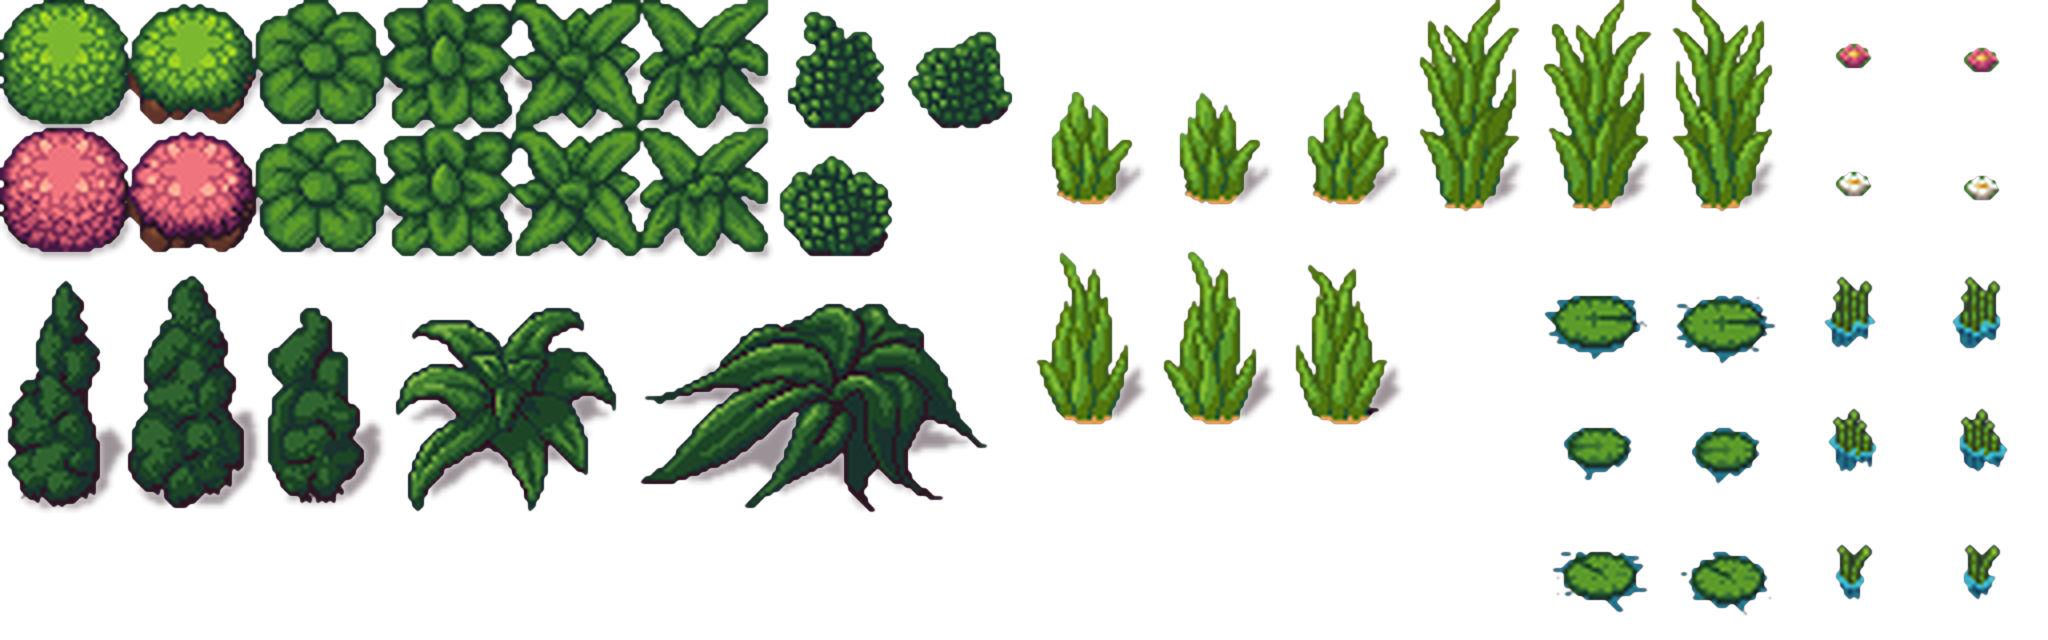
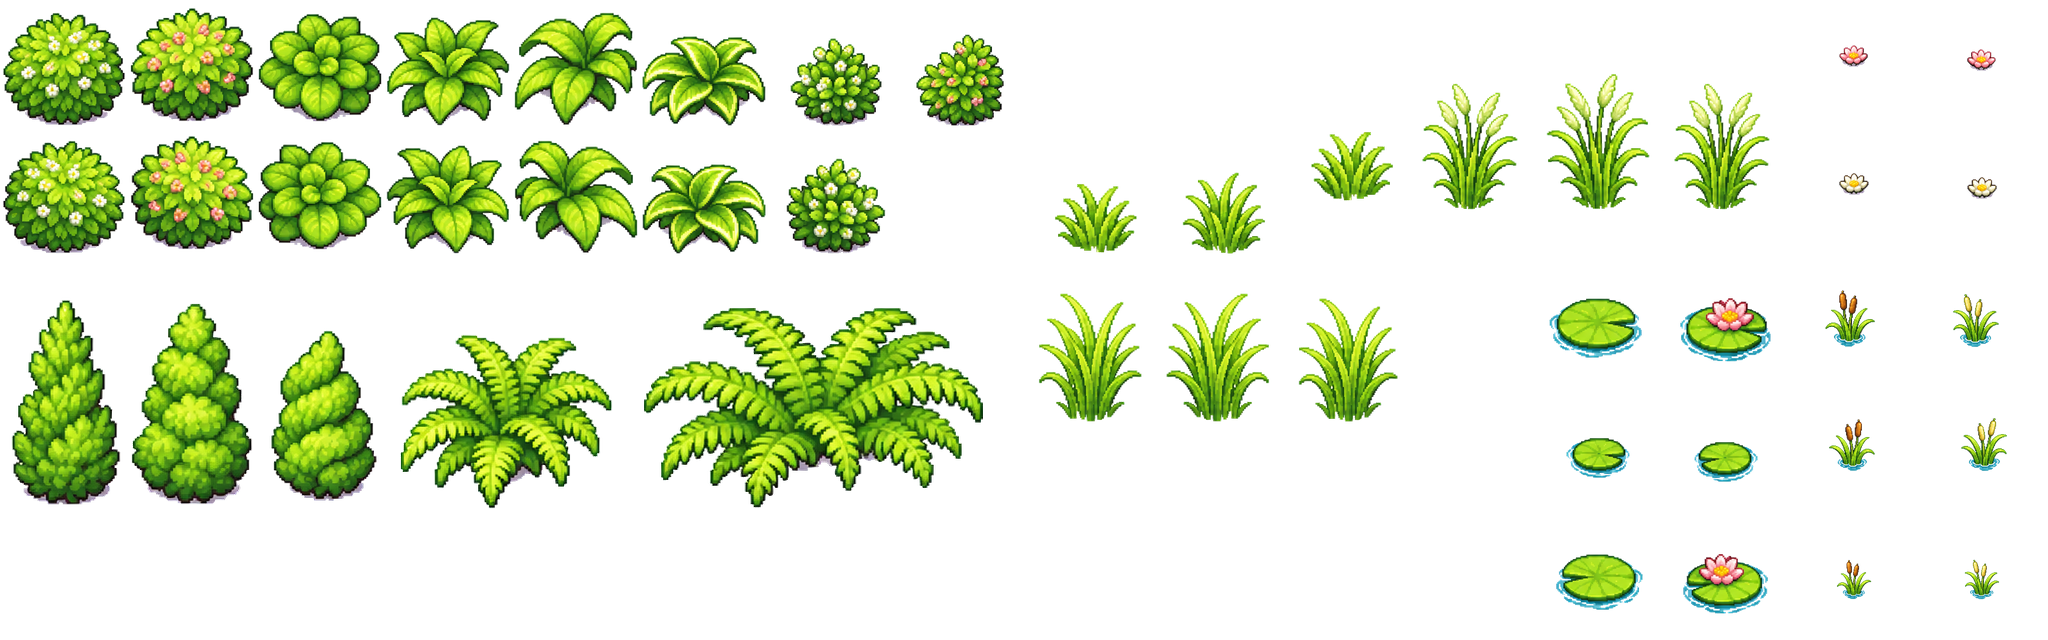
art(wilds): ChatGPT ground plants through the seasons and grassland rocks
- the ground plants the map scatters on brush and tall grass, and the water's
  edge reeds, lily pads, lilies and cattails: 24 drawn plants a season
  (spring, summer, autumn, winter) laid into the plants sheets, mirrored to
  fill their twin cells; the sheets start blank, since the scatter takes any
  lone cell, and every season keeps the summer sizes
- the grassland rocks (map fallback rocks, bank stones): ten shapes in three
  stone colours

Every keyed renderer sheet that has a repaint now loads it (it was only the
trees, plants and grassland rocks), so the lot sign board, the carried grain
sack and the flotsam crate and planks show the new art; their draws scale
their cells by the sheet's size.

Claude-Session: https://claude.ai/code/session_015H8bBwBoYmHtzQn6aSaAEB

diff --git a/src/ui/innerMapLayers/entities.js b/src/ui/innerMapLayers/entities.js
@@ -883,7 +883,8 @@ Object.assign(InnerMapRenderer, {
                             const s = ds * 0.6 * charScale;
                             const side = nDir === InnerMapCharacters.DIR_LEFT ? -1 : nDir === InnerMapCharacters.DIR_RIGHT ? 1 : 0;
                             const bob = nAnim === 'walk' ? Math.abs(Math.sin(npcTime * 9)) * ds * 0.03 : 0;
-                            ctx.drawImage(sackSheet, 32, 96, 32, 32, sx - s / 2 + side * cw * 0.22, cy + ch * 0.42 - s / 2 - bob, s, s);
+                            const k = self._sheetScale(sackSheet);   // (the grain sack, farming_fishing cell (1, 2-3))
+                            ctx.drawImage(sackSheet, 32 * k, 92 * k, 32 * k, 36 * k, sx - s / 2 + side * cw * 0.22, cy + ch * 0.42 - s / 2 - bob, s, s);
                         };
                         if (sackSheet && nDir === InnerMapCharacters.DIR_UP) drawSack();
                         if (extra && nDir === InnerMapCharacters.DIR_UP) drawTool();
@@ -1117,11 +1118,14 @@ Object.assign(InnerMapRenderer, {
         const sz = cs * 0.8;
         if (sv.kind === 'planks' && sheet('lumber')) {
             // one of the first row's loose planks
-            ctx.drawImage(sheet('lumber'), (sv.frame % 10) * 32, 0, 32, 32, -sz / 2, -sz * 0.7, sz, sz);
+            const k = this._sheetScale(sheet('lumber'));
+            ctx.drawImage(sheet('lumber'), (sv.frame % 10) * 32 * k, 0, 32 * k, 32 * k, -sz / 2, -sz * 0.7, sz, sz);
         } else if (sv.kind === 'crate' && sheet('crate')) {
-            ctx.drawImage(sheet('crate'), 0, 32, 32, 32, -sz / 2, -sz * 0.75, sz, sz);
+            const k = this._sheetScale(sheet('crate'));
+            ctx.drawImage(sheet('crate'), 0, 32 * k, 32 * k, 32 * k, -sz / 2, -sz * 0.75, sz, sz);
         } else if (sv.kind === 'chest' && sheet('chest')) {
-            ctx.drawImage(sheet('chest'), 64, 0, 32, 32, -sz / 2, -sz * 0.75, sz, sz);
+            const k = this._sheetScale(sheet('chest'));
+            ctx.drawImage(sheet('chest'), 64 * k, 0, 32 * k, 32 * k, -sz / 2, -sz * 0.75, sz, sz);
         } else if (sv.kind === 'sail') {
             ctx.fillStyle = 'rgba(232,224,204,0.95)';
             ctx.beginPath();

diff --git a/src/ui/innerMapRenderer.js b/src/ui/innerMapRenderer.js
@@ -12,10 +12,9 @@ import { resetCanvasTransform } from './hiDpi.js';
 import { CustomSheets, loadSheetInto } from '../core/customSheets.js';
 import { sheetScale } from './sheetScale.js';
 
-// Map scatter sheets that load their painted repaint (data/innerMapRenderer.json
-// `modernSheets`, at 4x in the original layout) — every draw from them scales its
-// 32px cell addresses by sheetScale(). Other keyed sheets stay the originals.
-const MODERN_KEYS = /^(trees|plants)_|^rocks_grass$/;
+// Keyed sheets with a repaint (data/innerMapRenderer.json `modernSheets`, at 4x in
+// the original layout) load it — every draw from them scales its 32px cell
+// addresses by sheetScale().
 
 // ============================================
 // INNER MAP RENDERER — LPC (Liberated Pixel Cup) Style
@@ -113,8 +112,7 @@ export const InnerMapRenderer = {
                     img.onload = () => { this._sheets.set(key, img); resolve(); };
                     img.onerror = () => { console.warn(`LPC sheet missing: ${path}`); resolve(); };
                 });
-                if (MODERN_KEYS.test(key)) loadSheetInto(img, path, DataLoader._gamedata, img.onerror);
-                else img.src = path;
+                loadSheetInto(img, path, DataLoader._gamedata, img.onerror);   // (its repaint, if it has one)
                 promises.push(p);
             }
             // Also load the spritesheet terrain JSON for fill definitions

diff --git a/scripts/make_new_props.py b/scripts/make_new_props.py
@@ -51,12 +51,38 @@ SHEETS = {
     'arched':   ('lpc/Structure/Doors/64x64px Arched Doors/Arched Double Doors A.png', (8, 12)),
     'frame':    ('lpc/Structure/Doors/32x64px Doors/Doorframe A.png', (12, 6)),
     'farm':     ('lpc/ThatchedHouses/tilesets/farming_fishing.png', (20, 20)),
-    'kitfurn':  ('buildingKit/furniture.png', (4, 8)),   # no repaint before: started from the original at 4x
+    'kitfurn':  ('buildingKit/furniture.png', (4, 8)),
+    'grocks':   ('lpc/Terrain/Rocks, Grasslands.png', (6, 12)),
+    **{f'plants_{x}': (f'lpc/Terrain/plants_{x}.png', (16, 5)) for x in ('spring', 'summer', 'autumn', 'winter')},   # no repaint before: started from the original at 4x
 }
+
+# The ground plants (map scatter on brush and tall grass, water's-edge dressing): 24 drawings a
+# season, each filling one or more cells of the plants sheet; 'f' marks a mirrored copy.
+PLANT_CELLS = [
+    [(0, 0, 1, 1), (0, 1, 1, 1, 'f')], [(1, 0, 1, 1), (1, 1, 1, 1, 'f')],          # round bushes
+    [(2, 0, 1, 1), (2, 1, 1, 1, 'f')], [(3, 0, 1, 1), (3, 1, 1, 1, 'f')],          # rosettes
+    [(4, 0, 1, 1), (4, 1, 1, 1, 'f')], [(5, 0, 1, 1), (5, 1, 1, 1, 'f')],          # broad leaves
+    [(6, 0, 1, 1), (6, 1, 1, 1, 'f')], [(7, 0, 1, 1)],                             # dense shrubs
+    [(0, 2, 1, 2)], [(1, 2, 1, 2)], [(2, 2, 1, 2)],                                # conifer shrubs
+    [(3, 2, 2, 2)], [(5, 2, 3, 2)],                                                # fern, giant fern
+    [(8, 1, 1, 1), (10, 1, 1, 1, 'f')], [(9, 1, 1, 1)],                            # grass tufts
+    [(8, 2, 1, 2), (9, 2, 1, 2, 'f'), (10, 2, 1, 2)],                              # tall grass
+    [(11, 0, 1, 2), (12, 0, 1, 2, 'f'), (13, 0, 1, 2)],                            # tall reeds
+    [(12, 2, 1, 1), (12, 4, 1, 1, 'f')], [(12, 3, 1, 1), (13, 3, 1, 1, 'f')],      # lily pads
+    [(13, 2, 1, 1), (13, 4, 1, 1, 'f')],                                           # lily pad in flower
+    [(14, 0, 1, 1), (15, 0, 1, 1, 'f')], [(14, 1, 1, 1), (15, 1, 1, 1, 'f')],      # lily flowers
+    [(14, 2, 1, 1), (14, 3, 1, 1, 'f'), (14, 4, 1, 1)], [(15, 2, 1, 1), (15, 3, 1, 1, 'f'), (15, 4, 1, 1)],  # cattails
+]
 
 # a source, and the sheet and cell rectangle each of its drawings fills, in reading order
 # (a third entry: more rectangles the same drawing fills, e.g. an animation's frames)
 RECIPES = {
+    **{f'plants_{x}': (f'plants_{x}_source.png', [(f'plants_{x}', list(cs[0]), [list(c) for c in cs[1:]]) for cs in PLANT_CELLS], 'fresh')
+       for x in ('spring', 'summer', 'autumn', 'winter')},
+    # the grassland rocks (map fallback rocks, water's-edge stones): ten shapes, a colour band of four rows each
+    'grocks': ('grocks_source.png', [('grocks', [c, r + 4 * b, w, h]) for b in range(3) for c, r, w, h in (
+        (0, 0, 2, 3), (2, 0, 2, 2), (4, 0, 2, 2), (2, 2, 2, 1), (0, 3, 2, 1), (2, 3, 2, 1),
+        (4, 2, 1, 1), (5, 2, 1, 1), (5, 3, 1, 1), (4, 3, 1, 1))]),
     # the interior furniture, 4 a row (innerMapRenderer.json interiorArt); its 32nd, a well, is skipped:
     # that cell is the town well, drawn in 'farm'
     'furniture': ('furniture_source.png', [('kitfurn', [i % 4, i // 4, 1, 1]) for i in range(31)] + [(None, None)]),
@@ -122,7 +148,9 @@ def objects(im, min_frac=0.03):
 
 def old_box(key, c, r, w, h):
     """The old sprite's box inside the rectangle, at 4x (x0, y0, x1, y1, relative to the rectangle)."""
-    a = np.array(Image.open(os.path.join('assets', SHEETS[key][0])).convert('RGBA'))
+    # (every season's plants take the summer sheet's boxes: in winter the old leafy plants were stubs)
+    path = SHEETS['plants_summer' if key.startswith('plants_') else key][0]
+    a = np.array(Image.open(os.path.join('assets', path)).convert('RGBA'))
     sub = a[int(r * 32):int((r + h) * 32), int(c * 32):int((c + w) * 32), 3] > 0
     ys, xs = np.where(sub)
     if not len(ys):
@@ -155,7 +183,10 @@ def build(name):
             continue
         for rect in [item[1]] + (item[2] if len(item) > 2 else []):
             flat.append((im, item[0], rect))
-    for im, key, (c, r, w, h) in flat:
+    for im, key, rect in flat:
+        c, r, w, h = rect[:4]
+        if len(rect) > 4 and rect[4] == 'f':
+            im = im.transpose(Image.FLIP_LEFT_RIGHT)
         if key not in sheets:
             path, (cols, rows) = SHEETS[key]
             mod = os.path.join('assets/modern', path)
@@ -164,6 +195,8 @@ def build(name):
                 os.makedirs(os.path.dirname(mod), exist_ok=True)
                 o.resize((o.width * 4, o.height * 4), Image.NEAREST).save(mod)
             sheets[key] = Image.open(mod).convert('RGBA')
+            if 'fresh' in opts:   # nothing of the old sheet kept (the plant scatter takes any lone cell)
+                sheets[key] = Image.new('RGBA', sheets[key].size, (0, 0, 0, 0))
             assert sheets[key].size == (cols * C, rows * C), (key, sheets[key].size)
         sheet = sheets[key]
         for y in range(h):
